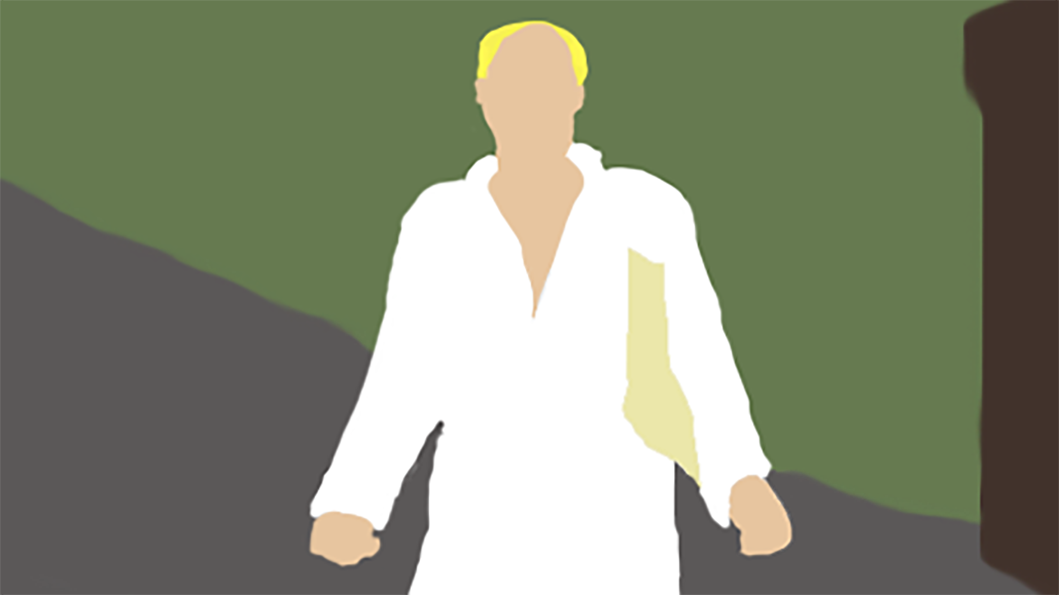
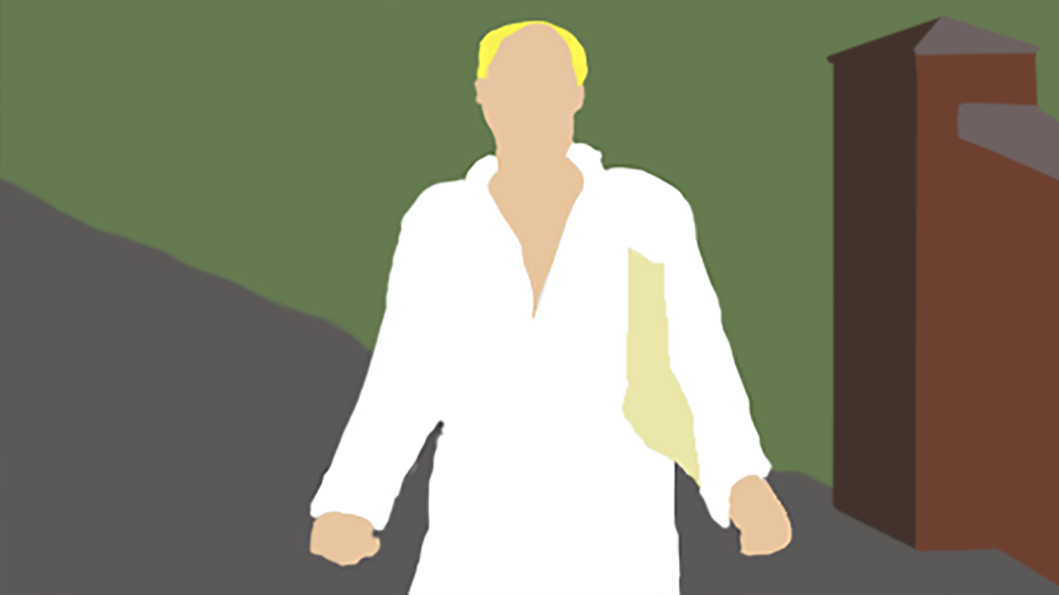
Added background drawings and text

Changed region(s): [[0.779, 0.0, 1.0, 1.0]]

diff --git a/Games/White_towelling_bathrobe/js/script.js b/Games/White_towelling_bathrobe/js/script.js
@@ -7,7 +7,12 @@ by A Desert Drawing
 
 let state = 'title'; //can be title, scenes or shooting
 
-let shootingBG;
+let waitAMinute;
+let pullingUp;
+let missedYou;
+let weWont;
+let uhOh;
+let preShoot;
 let shootingBGclose;
 
 //This is the guy's body
@@ -22,7 +27,7 @@ let blood = {
     y: 300,
     size: 20,
     minSize: 20,
-    maxSize: 70,
+    maxSize: 100,
     grow: 1,
     trail: [], //adding an array to remember where the blood is
 };
@@ -32,13 +37,18 @@ let gunsound;
 
 function preload() {
     //Preloading the pics & gun sound
-    shootingBG = loadImage('assets/images/shootingBG.png')
-    shootingBGclose = loadImage('assets/images/shootingBGclose.png')
+    waitAMinute = loadImage('assets/images/0_WaitAMinute.png');
+    pullingUp = loadImage('assets/images/1_pulling_up.png');
+    missedYou = loadImage('assets/images/2_IThoughtIdMissedYou.png');
+    weWont = loadImage('assets/images/3_WeWont.png');
+    uhOh = loadImage('assets/images/4_UhOh.png');
+    preShoot = loadImage('assets/images/5_PreShooting.png');
+    shootingBGclose = loadImage('assets/images/shootingBGclose.png');
     gunsound = loadSound('assets/sounds/gunsound.mp3');
 }
 
 function setup() {
-    createCanvas(900, 450);
+    createCanvas(800, 450);
     background(0);
 }
 
@@ -46,6 +56,9 @@ function draw() {
     //Setting up the states
     if (state === 'title') {
         title();
+    }
+    if (state === 'scene0') {
+        scene0();
     }
     else if (state === 'scene1') {
         scene1();
@@ -55,6 +68,12 @@ function draw() {
     }
     else if (state === 'scene3') {
         scene3();
+    }
+    else if (state === 'scene4') {
+        scene4();
+    }
+    else if (state === 'scene5') {
+        scene5();
     }
     else if (state === 'shooting') {
         //Adding background image here so it doesn't replace shots
@@ -124,6 +143,9 @@ function shooting() {
 
 function mousePressed() {
     if (state === 'title') {
+        state = 'scene0';
+    }
+    else if (state === 'scene0') {
         state = 'scene1';
     }
     else if (state === 'scene1') {
@@ -133,42 +155,88 @@ function mousePressed() {
         state = 'scene3';
     }
     else if (state === 'scene3') {
+        state = 'scene4';
+    }
+    else if (state === 'scene4') {
+        state = 'scene5';
+    }
+    else if (state === 'scene5') {
         state = 'shooting';
     }
 }
 
 function title() {
     push();
-    textSize(24);
-    fill(80);
+    textSize(32);
+    fill(255);
     textAlign(CENTER, CENTER);
-    text(`White towelling bathrobe\n Click to start.`, width / 2, height / 2 - 150);
+    text(`White towelling bathrobe\n\n\n Click to start`, width / 2, height / 2);
+    pop();
+}
+
+function scene0() {
+    //Adding the background image
+    image(waitAMinute, 0, 0);
+    push();
+    textSize(24);
+    fill(255);
+    textAlign(CENTER, 100);
+    text(`Wait a minute!`, width / 2, 80);
     pop();
 }
 
 function scene1() {
-    push();
-    textSize(24);
-    fill(80);
-    textAlign(CENTER, CENTER);
-    text(`This is scene 1\n Click to continue.`, width / 2, height / 2 - 50);
-    pop();
+    //Adding the background image
+    image(pullingUp, 0, 0);
+    // push();
+    // textSize(24);
+    // fill(80);
+    // textAlign(CENTER, CENTER);
+    // text(`This is scene 1\n Click to continue.`, width / 2, height / 2 - 50);
+    // pop();
 }
 
 function scene2() {
+    //Adding the background image
+    image(missedYou, 0, 0);
     push();
     textSize(24);
-    fill(80);
+    fill(255);
     textAlign(CENTER, CENTER);
-    text(`This is scene 2\n Click to continue.`, width / 2, height / 2 + 50);
+    text(`I was afraid\nyou'd miss me`, width / 2 - 70, 50);
     pop();
 }
 
 function scene3() {
+    //Adding the background image
+    image(weWont, 0, 0);
+    push();
+
+    textSize(24);
+    fill(255);
+    textAlign(CENTER, CENTER);
+    text(`Don't worry.`, width / 2 - 110, height / 2 + 30);
+    pop();
+}
+
+function scene4() {
+    //Adding the background image
+    image(uhOh, 0, 0);
+    // push();
+    // textSize(24);
+    // fill(80);
+    // textAlign(CENTER, CENTER);
+    // text(`This is scene 4\n Click to continue.`, width / 2, height / 2 + 150);
+    // pop();
+}
+
+function scene5() {
+    //Adding the background image
+    image(preShoot, 0, 0);
     push();
     textSize(24);
-    fill(80);
+    fill(255);
     textAlign(CENTER, CENTER);
-    text(`This is scene 3\n Click to continue.`, width / 2, height / 2 + 150);
+    text(`We won't`, width / 2 - 80, height / 2 - 30);
     pop();
 }
